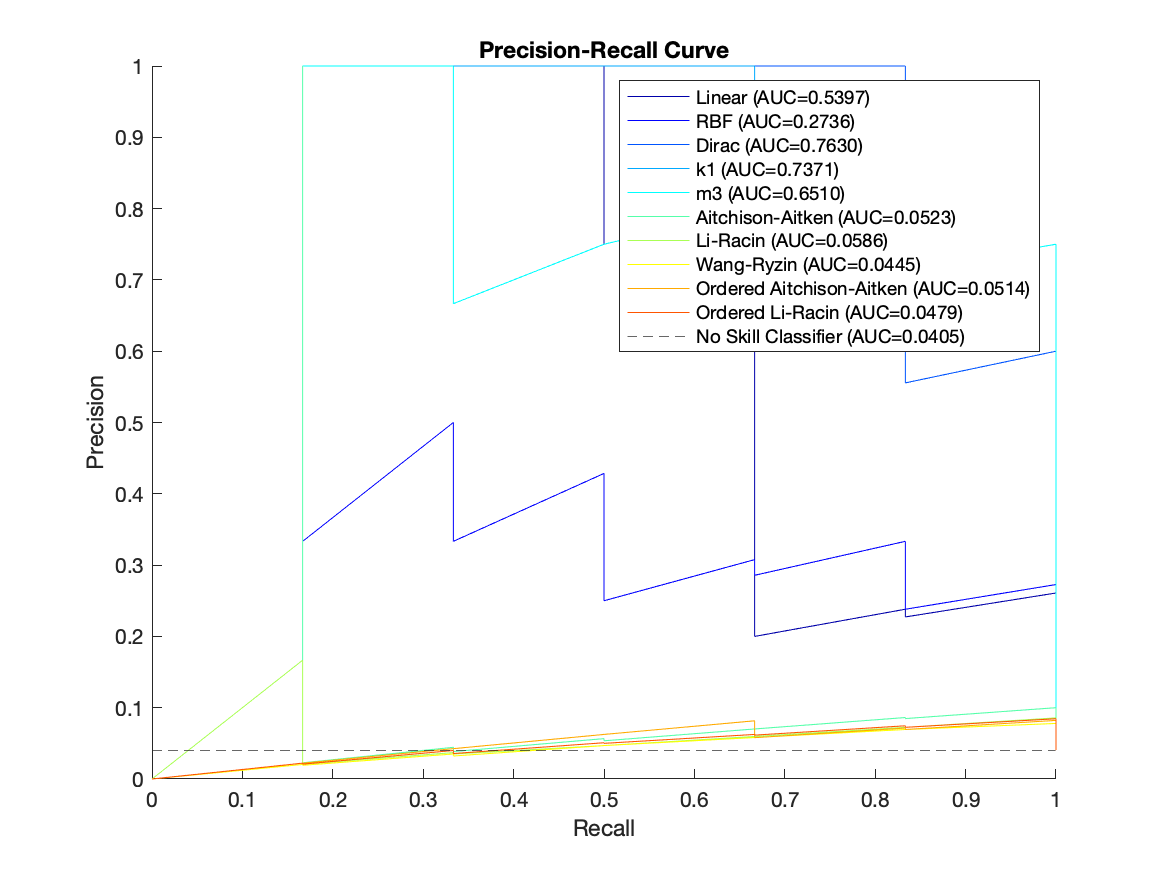
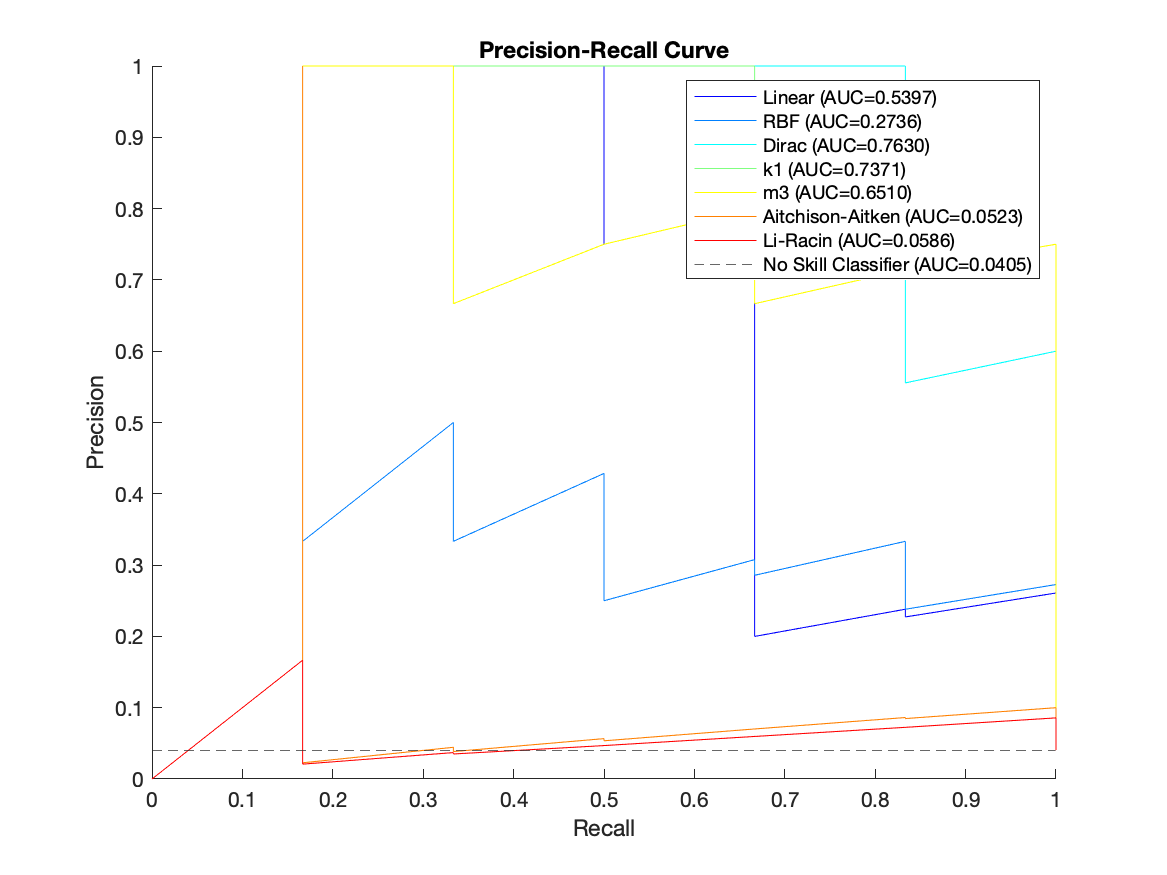
fix: move ordinal kernel tests to breastcancer

diff --git a/thesis/breastcancer/breastcancer_kernels.m b/thesis/breastcancer/breastcancer_kernels.m
@@ -101,6 +101,27 @@ solution = kMRCD(kModel).runAlgorithm(unlabeledData, alpha);
 s(7).kernel = "Li-Racin";
 s(7).solution = solution;
 
+%% Wang-Ryzin
+
+kModel = WangRyzinKernel(unlabeledData, lambda=repmat(0.01, 1, width(unlabeledData)));
+solution = kMRCD(kModel).runAlgorithm(unlabeledData, alpha);
+s(8).kernel = "Wang-Ryzin";
+s(8).solution = solution;
+
+%% Ordered Aitchison-Aitken
+
+kModel = OrderedAitchisonAitkenKernel(unlabeledData);
+solution = kMRCD(kModel).runAlgorithm(unlabeledData, alpha);
+s(9).kernel = "Ordered Aitchison-Aitken";
+s(9).solution = solution;
+
+%% Ordered Li-Racin
+
+kModel = OrderedLiRacinKernel(unlabeledData, lambda=repmat(0.01, 1, width(unlabeledData)));
+solution = kMRCD(kModel).runAlgorithm(unlabeledData, alpha);
+s(10).kernel = "Ordered Li-Racin";
+s(10).solution = solution;
+
 %% Summary
 
 for i = 1:numel(s)
@@ -143,5 +164,3 @@ saveas(fig,fullfile(imageDir, "pr_curve.png"),'png');
 % Comparison
 stats = struct2table(s);
 writetable(stats, fullfile(tableDir, "comparison.csv"));
-
-clear s;

diff --git a/thesis/lymphography/lymphography_kernels.m b/thesis/lymphography/lymphography_kernels.m
@@ -105,27 +105,6 @@ solution = kMRCD(lrModel).runAlgorithm(unlabeledData, alpha);
 s(7).kernel = "Li-Racin";
 s(7).solution = solution;
 
-%% Wang-Ryzin
-
-kModel = WangRyzinKernel(unlabeledData, lambda=repmat(0.01, 1, width(unlabeledData)));
-solution = kMRCD(kModel).runAlgorithm(unlabeledData, alpha);
-s(8).kernel = "Wang-Ryzin";
-s(8).solution = solution;
-
-%% Ordered Aitchison-Aitken
-
-kModel = OrderedAitchisonAitkenKernel(unlabeledData);
-solution = kMRCD(kModel).runAlgorithm(unlabeledData, alpha);
-s(9).kernel = "Ordered Aitchison-Aitken";
-s(9).solution = solution;
-
-%% Ordered Li-Racin
-
-kModel = OrderedLiRacinKernel(unlabeledData, lambda=repmat(0.01, 1, width(unlabeledData)));
-solution = kMRCD(kModel).runAlgorithm(unlabeledData, alpha);
-s(10).kernel = "Ordered Li-Racin";
-s(10).solution = solution;
-
 %% Summary
 
 for i = 1:numel(s)
